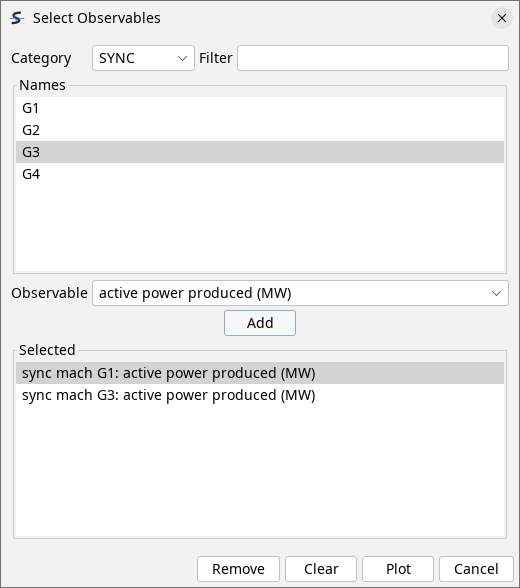
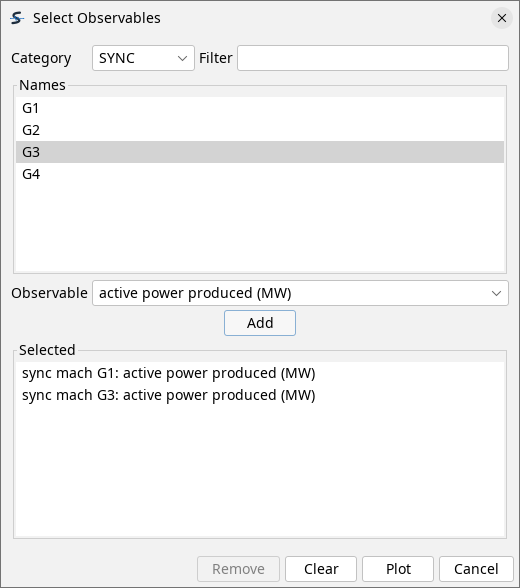
Reshoot every screenshot on 3.78.4, and stop losing them to a black rectangle
Five figures shipped as a black rectangle: gui-analysis-light,
gui-codegen-light, gui-dynamic-simulation-light, gui-system-data-light and
cg-studio-settings. The cause was the capture, not the applications. The
previous set was grabbed window by window off an Xvfb display running without
backing store and without a window manager, so any window that was momentarily
obscured came back from the X server as whatever was in front of it, which on
an empty root is black. Nothing checked the result, so four tabs and a modal
went out as solid black and stayed that way for a release.

The capture is now built so that failure cannot recur: Xvfb runs with +bs,
openbox keeps the stacking order sane, every shot raises its target and waits
for the repaint, and each figure is cropped out of a full root capture rather
than read back from the window's own buffer. A shot that comes back more than
12% black is rejected rather than written. All 44 GUI figures come from two
runs of one script on one build, light and dark, same Kundur two-area case,
same 1600x760 window, so the pair for any figure differs only in the theme.

Sixty figures in total, replacing twenty-two:

  GUI, light and dark, 22 pairs. The ten that existed, plus the licence
  dialog, the banner an opened example leaves, the observable picker panel,
  the one-line diagram window, the four Helios inspection views, the run-time
  curves window, the File and Tools menus, and the status bar.
[…]

Changed region(s): [[0.0308, 0.6122, 0.9846, 0.6735], [0.4, 0.949, 0.5231, 0.9796]]

diff --git a/src/styles/custom.css b/src/styles/custom.css
@@ -57,16 +57,16 @@ th {
 /*
  * Screenshots that exist in one theme only, and so cannot follow the reader's.
  * A border gives them an edge to sit in, which a dark image needs on the dark
- * theme and a light image needs on the light one. Two upstream reasons, both
- * tracked and both expected to go away:
+ * theme and a light image needs on the light one. One upstream reason is left:
  *
  *   CODEGEN Studio is dark-only. :root in its style.css hard-codes
  *   --bg: #0f1117 with no light variant (SPS-L/stepss-cg-studio#1).
  *
- *   The small-signal results window is light-only. Its s-plane and mode-shape
- *   panels paint their own white background instead of taking it from the look
- *   and feel, so the dark theme leaves two glaring rectangles
- *   (SPS-L/stepss-java-ui#11).
+ * The small-signal results window used to be the second reason, because its
+ * s-plane and mode-shape panels painted their own white background instead of
+ * taking it from the look and feel. SPS-L/stepss-java-ui#11 closed that, and
+ * the figures reshot on 3.78.4 confirm it: both panels follow the theme, so
+ * those two are now an ordinary pair and no longer carry this class.
  *
  * Every other screenshot here ships as a light/dark pair and uses Starlight's
  * own light:sl-hidden and dark:sl-hidden, which needs no CSS at all. Prefer

diff --git a/src/content/docs/python/examples.md b/src/content/docs/python/examples.md
@@ -135,6 +135,43 @@ ext.getInj('WT1a').Pw.plot()
 ext.getTwop('hvdc1').P1.plot()
 ```
 
+Every one of those calls opens a matplotlib figure. Run against the bundled
+Kundur two-area example, whose disturbance steps load `L9` at `t = 1 s`, the
+first three look like this.
+
+`ext.getSync('G1').P.plot()`, one curve, labelled from the trajectory:
+
+<img src="/images/screenshots/py-plot-single-light.png"
+     alt="Active power produced by generator G1 against time, in megawatts over 60 seconds. It sits at 700 MW until the load step at t equals 1 second, overshoots to 710, oscillates with a decaying amplitude for about ten seconds and then creeps up to settle near 709 MW."
+     class="dark:sl-hidden" />
+<img src="/images/screenshots/py-plot-single-dark.png"
+     alt="Active power produced by generator G1 against time, in megawatts over 60 seconds. It sits at 700 MW until the load step at t equals 1 second, overshoots to 710, oscillates with a decaying amplitude for about ten seconds and then creeps up to settle near 709 MW."
+     class="light:sl-hidden" />
+
+`stepss.curplot([...])`, several curves on one set of axes. Putting all four
+machines together is what separates the areas: `G3` starts 19 MW above the rest
+and stays there, while `G1`, `G2` and `G4` sit on top of one another.
+
+<img src="/images/screenshots/py-plot-multi-light.png"
+     alt="Active power produced by generators G1 to G4 against time, four curves on one set of axes with a legend below them. G3 runs alone near 719 MW and settles at 728; G1, G2 and G4 start together at 700 MW and settle together near 709. All four oscillate for about ten seconds after the load step at t equals 1 second."
+     class="dark:sl-hidden" />
+<img src="/images/screenshots/py-plot-multi-dark.png"
+     alt="Active power produced by generators G1 to G4 against time, four curves on one set of axes with a legend below them. G3 runs alone near 719 MW and settles at 728; G1, G2 and G4 start together at 700 MW and settle together near 709. All four oscillate for about ten seconds after the load step at t equals 1 second."
+     class="light:sl-hidden" />
+
+`ext.getBus('9').mag.plot()`, the same run seen as a voltage rather than a
+power:
+
+<img src="/images/screenshots/py-plot-bus-light.png"
+     alt="Voltage magnitude at bus 9 against time, in per unit over 60 seconds. It holds at 0.9714 until the load step at t equals 1 second, drops sharply to 0.957, oscillates briefly and then recovers slowly, reaching about 0.9645 by the end of the run."
+     class="dark:sl-hidden" />
+<img src="/images/screenshots/py-plot-bus-dark.png"
+     alt="Voltage magnitude at bus 9 against time, in per unit over 60 seconds. It holds at 0.9714 until the load step at t equals 1 second, drops sharply to 0.957, oscillates briefly and then recovers slowly, reaching about 0.9645 by the end of the run."
+     class="light:sl-hidden" />
+
+These are ordinary matplotlib figures, so the usual `savefig`, styling and
+subplot handling all apply to them.
+
 ## Live Plotting
 
 Watch chosen quantities as the simulation computes them, one panel per
@@ -156,6 +193,18 @@ mon = stepss.monitor(ram, [
 curves = mon.run(step=0.1)               # to the end of the scenario
 mon.savefig('live.png')
 ```
+
+Each observable gets a panel, the panels share the time axis, and the figure is
+redrawn as the run advances. `RT RT` is the one to include when you want to see
+how fast the run itself is going: a straight line means the engine is keeping a
+steady pace, and a knee in it is where the case got expensive.
+
+<img src="/images/screenshots/py-monitor-light.png"
+     alt="A live monitor figure titled Kundur two-area, four panels stacked on a shared time axis running to 60 seconds. From the top: the speed of machine G1 in per unit, the voltage magnitude of bus 9 in per unit, the active power at the origin of branch 7-8 number 1 in megawatts, and the elapsed real time in seconds, which rises as a straight line to about 0.26 seconds."
+     class="dark:sl-hidden" />
+<img src="/images/screenshots/py-monitor-dark.png"
+     alt="A live monitor figure titled Kundur two-area, four panels stacked on a shared time axis running to 60 seconds. From the top: the speed of machine G1 in per unit, the voltage magnitude of bus 9 in per unit, the active power at the origin of branch 7-8 number 1 in megawatts, and the elapsed real time in seconds, which rises as a straight line to about 0.26 seconds."
+     class="light:sl-hidden" />
 
 `run` returns the same `cur` objects the extractor produces, so the collected
 data goes straight into the post-processing above:
@@ -319,3 +368,14 @@ ext = stepss.extractor(case.getTrj())
 ext.getSync('G').P.plot()
 ext.getSync('G').Q.plot()
 ```
+
+The exciter set point rises by 0.05 pu, so the machine's reactive output is what
+moves: active power holds at its scheduled 450 MW while reactive power climbs
+from 68 to about 120 Mvar in a couple of seconds and settles there.
+
+<img src="/images/screenshots/py-five-bus-exciter-light.png"
+     alt="Active and reactive power produced by the 5-bus system's single generator against time, over 60 seconds. Active power is flat at 450 MW throughout. Reactive power starts at 68 Mvar, rises after the exciter set-point step at t equals 1 second, overshoots slightly past 120 Mvar around t equals 4 seconds and settles just under 120."
+     class="dark:sl-hidden" />
+<img src="/images/screenshots/py-five-bus-exciter-dark.png"
+     alt="Active and reactive power produced by the 5-bus system's single generator against time, over 60 seconds. Active power is flat at 450 MW throughout. Reactive power starts at 68 Mvar, rises after the exciter set-point step at t equals 1 second, overshoots slightly past 120 Mvar around t equals 4 seconds and settles just under 120."
+     class="light:sl-hidden" />

diff --git a/src/content/docs/user-guide/eigenanalysis.md b/src/content/docs/user-guide/eigenanalysis.md
@@ -238,10 +238,10 @@ In STEPSS GUI the same run is read from the small-signal results window, which
 
 <img src="/images/screenshots/gui-ssa-results-light.png"
      alt="The small-signal results window for the Kundur case. A table lists the seven electromechanical modes with frequency, damping ratio and real and imaginary parts; the 0.6237 Hz inter-area mode at a damping ratio of 0.1087 is selected. An s-plane plot on the right places every mode against a stability boundary at the imaginary axis. Below, the Participation panel lists the selected mode's largest contributions, the machines' speed and angle states, and a polar mode-shape plot shows the machines of one area swinging opposite to the other."
-     class="shot-single dark:sl-hidden" />
+     class="dark:sl-hidden" />
 <img src="/images/screenshots/gui-ssa-results-dark.png"
      alt="The small-signal results window for the Kundur case. A table lists the seven electromechanical modes with frequency, damping ratio and real and imaginary parts; the 0.6237 Hz inter-area mode at a damping ratio of 0.1087 is selected. An s-plane plot on the right places every mode against a stability boundary at the imaginary axis. Below, the Participation panel lists the selected mode's largest contributions, the machines' speed and angle states, and a polar mode-shape plot shows the machines of one area swinging opposite to the other."
-     class="shot-single light:sl-hidden" />
+     class="light:sl-hidden" />
 
 Reading that window across is the whole method in one view. The table gives the
 frequency and damping of each mode; the s-plane shows how much margin each one
